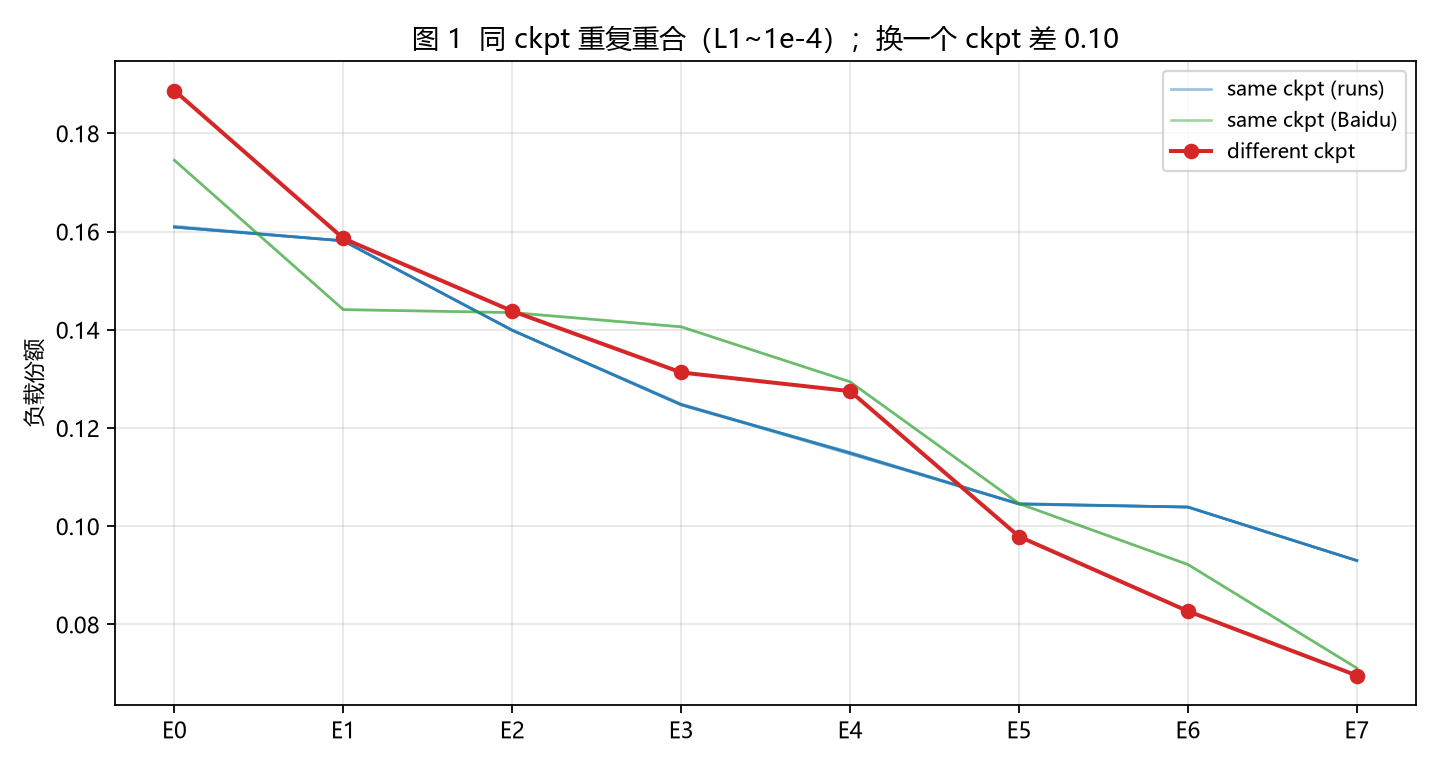
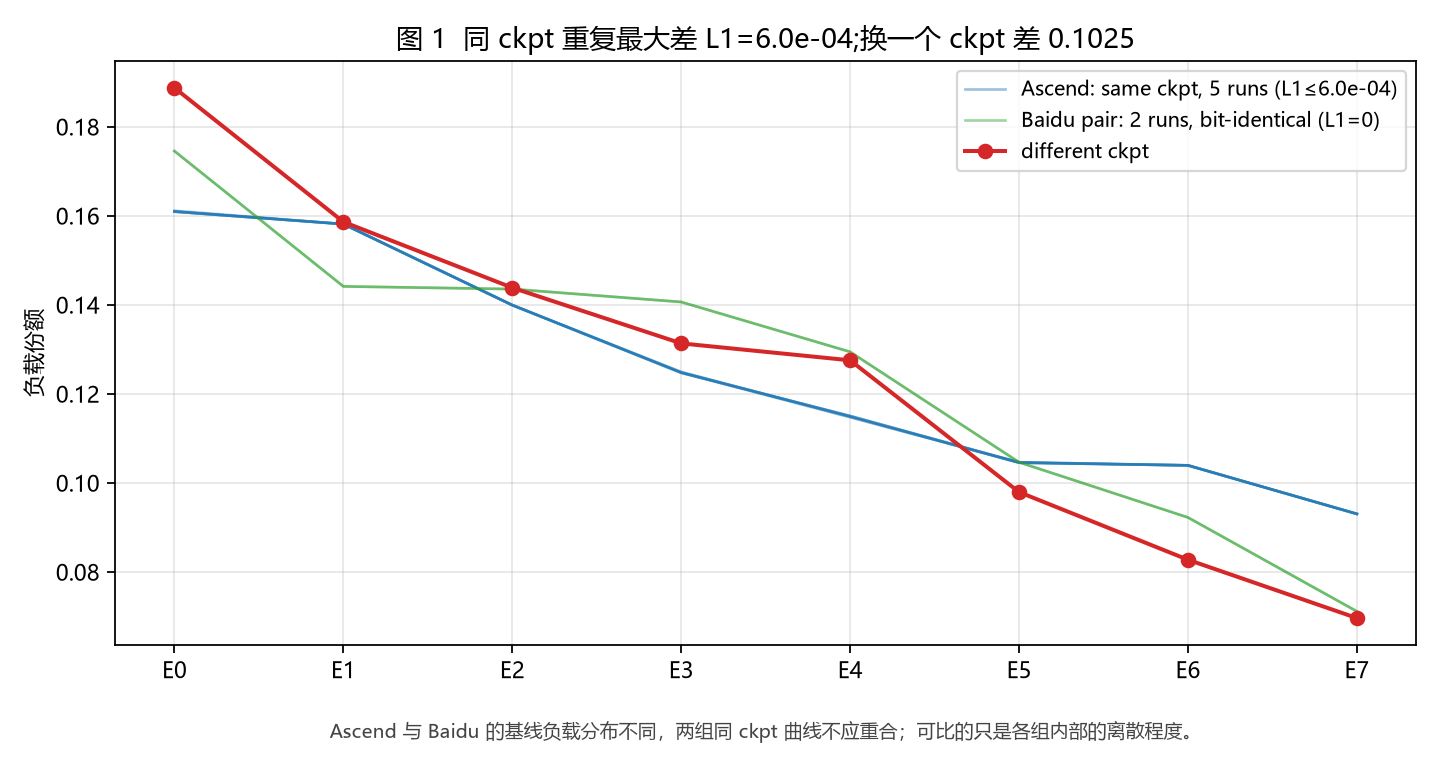
regenerate figures from data; recompute MANIFEST (v0.1.1)

diff --git a/make_figures.py b/make_figures.py
@@ -36,7 +36,13 @@ def fig_rotation(data, outdir, plt):
     ax.set_xticks(x)
     ax.set_xticklabels(["E%d" % i for i in x])
     ax.set_ylabel("负载份额")
-    ax.set_title("图 3  前 400 步：cv +11%，但负载排序彻底改变（L1=0.30）")
+    # 标题数字一律现算
+    if d.get("step0") and d.get("s1"):
+        dc = (_cv(d["s1"]) - _cv(d["step0"])) / _cv(d["step0"]) * 100
+        dl = _l1(d["step0"], d["s1"])
+        ax.set_title("图 3  前 400 步：cv %+.0f%%，但负载分布改变 L1=%.2f" % (dc, dl))
+    else:
+        ax.set_title("图 3  负载分布随训练改变")
     ax.legend(fontsize=9)
     ax.grid(alpha=0.3)
     fig.tight_layout()
@@ -49,23 +55,45 @@ def fig_rotation(data, outdir, plt):
 def fig_noise(data, outdir, plt):
     """图 1：同 ckpt 内几乎重合，换一个 ckpt 就完全不同。"""
     d = data["fig1_noise"]
+    # 标题与图例里的数字一律从数据现算，不硬编码
+    runs = d.get("same_ckpt_runs", [])
+    l1_same = 0.0
+    for i in range(len(runs)):
+        for j in range(i + 1, len(runs)):
+            l1_same = max(l1_same, _l1(runs[i], runs[j]))
+    l1_other = ""
+    if d.get("other_ckpt") and runs:
+        l1_other = ";换一个 ckpt 差 %.4f" % _l1(runs[0], d["other_ckpt"])
     fig, ax = plt.subplots(figsize=(9, 4.8))
     x = list(range(8))
     for i, arr in enumerate(d.get("same_ckpt_runs", [])):
         ax.plot(x, arr, color="#1f77b4", alpha=0.45, linewidth=1.2,
-                label="same ckpt (runs)" if i == 0 else None)
+                label="Ascend: same ckpt, 5 runs (L1≤%.1e)" % l1_same if i == 0 else None)
     if d.get("baidu_same"):
         for i, arr in enumerate(d["baidu_same"]):
             ax.plot(x, arr, color="#2ca02c", alpha=0.45, linewidth=1.2,
-                    label="same ckpt (Baidu)" if i == 0 else None)
+                    label="Baidu pair: 2 runs, bit-identical (L1=0)" if i == 0 else None)
     if d.get("other_ckpt"):
         ax.plot(x, d["other_ckpt"], color="#d62728", marker="o", linewidth=1.8,
                 label="different ckpt")
     ax.set_xticks(x)
     ax.set_xticklabels(["E%d" % i for i in x])
     ax.set_ylabel("负载份额")
-    ax.set_title("图 1  同 ckpt 重复重合（L1~1e-4）；换一个 ckpt 差 0.10")
+    # 标题里的数字一律从数据现算，不硬编码
+    runs = d.get("same_ckpt_runs", [])
+    l1_same = 0.0
+    for i in range(len(runs)):
+        for j in range(i + 1, len(runs)):
+            l1_same = max(l1_same, _l1(runs[i], runs[j]))
+    l1_other = ""
+    if d.get("other_ckpt") and runs:
+        l1_other = ";换一个 ckpt 差 %.4f" % _l1(runs[0], d["other_ckpt"])
+    ax.set_title("图 1  同 ckpt 重复最大差 L1=%.1e%s" % (l1_same, l1_other))
     ax.legend(fontsize=9)
+    # 两平台基线不同，绿蓝两组本就不该重合 —— 必须写明，否则会被误读
+    ax.text(0.5, -0.16, "Ascend 与 Baidu 的基线负载分布不同，两组同 ckpt 曲线不应重合；"
+                        "可比的只是各组内部的离散程度。",
+            transform=ax.transAxes, ha="center", fontsize=8.5, color="#444")
     ax.grid(alpha=0.3)
     fig.tight_layout()
     p = os.path.join(outdir, "fig1_noise_scale.png")
@@ -97,6 +125,11 @@ def fig_pair(data, outdir, plt):
     return p
 
 
+def _l1(a, b):
+    """与 metrics.py / check_pair.py 一致：份额分布的 L1 距离。"""
+    return sum(abs(x - y) for x, y in zip(a, b))
+
+
 def _cv(load):
     n = len(load)
     if n == 0:
@@ -104,6 +137,7 @@ def _cv(load):
     m = sum(load) / n
     if m <= 0:
         return 0.0
+    # 分母用 n-1（无偏），与 metrics.py / check_pair.py / 训练代码 / summary.csv 一致
     var = sum((x - m) ** 2 for x in load) / max(1, n - 1)
     return (var ** 0.5) / m
 
